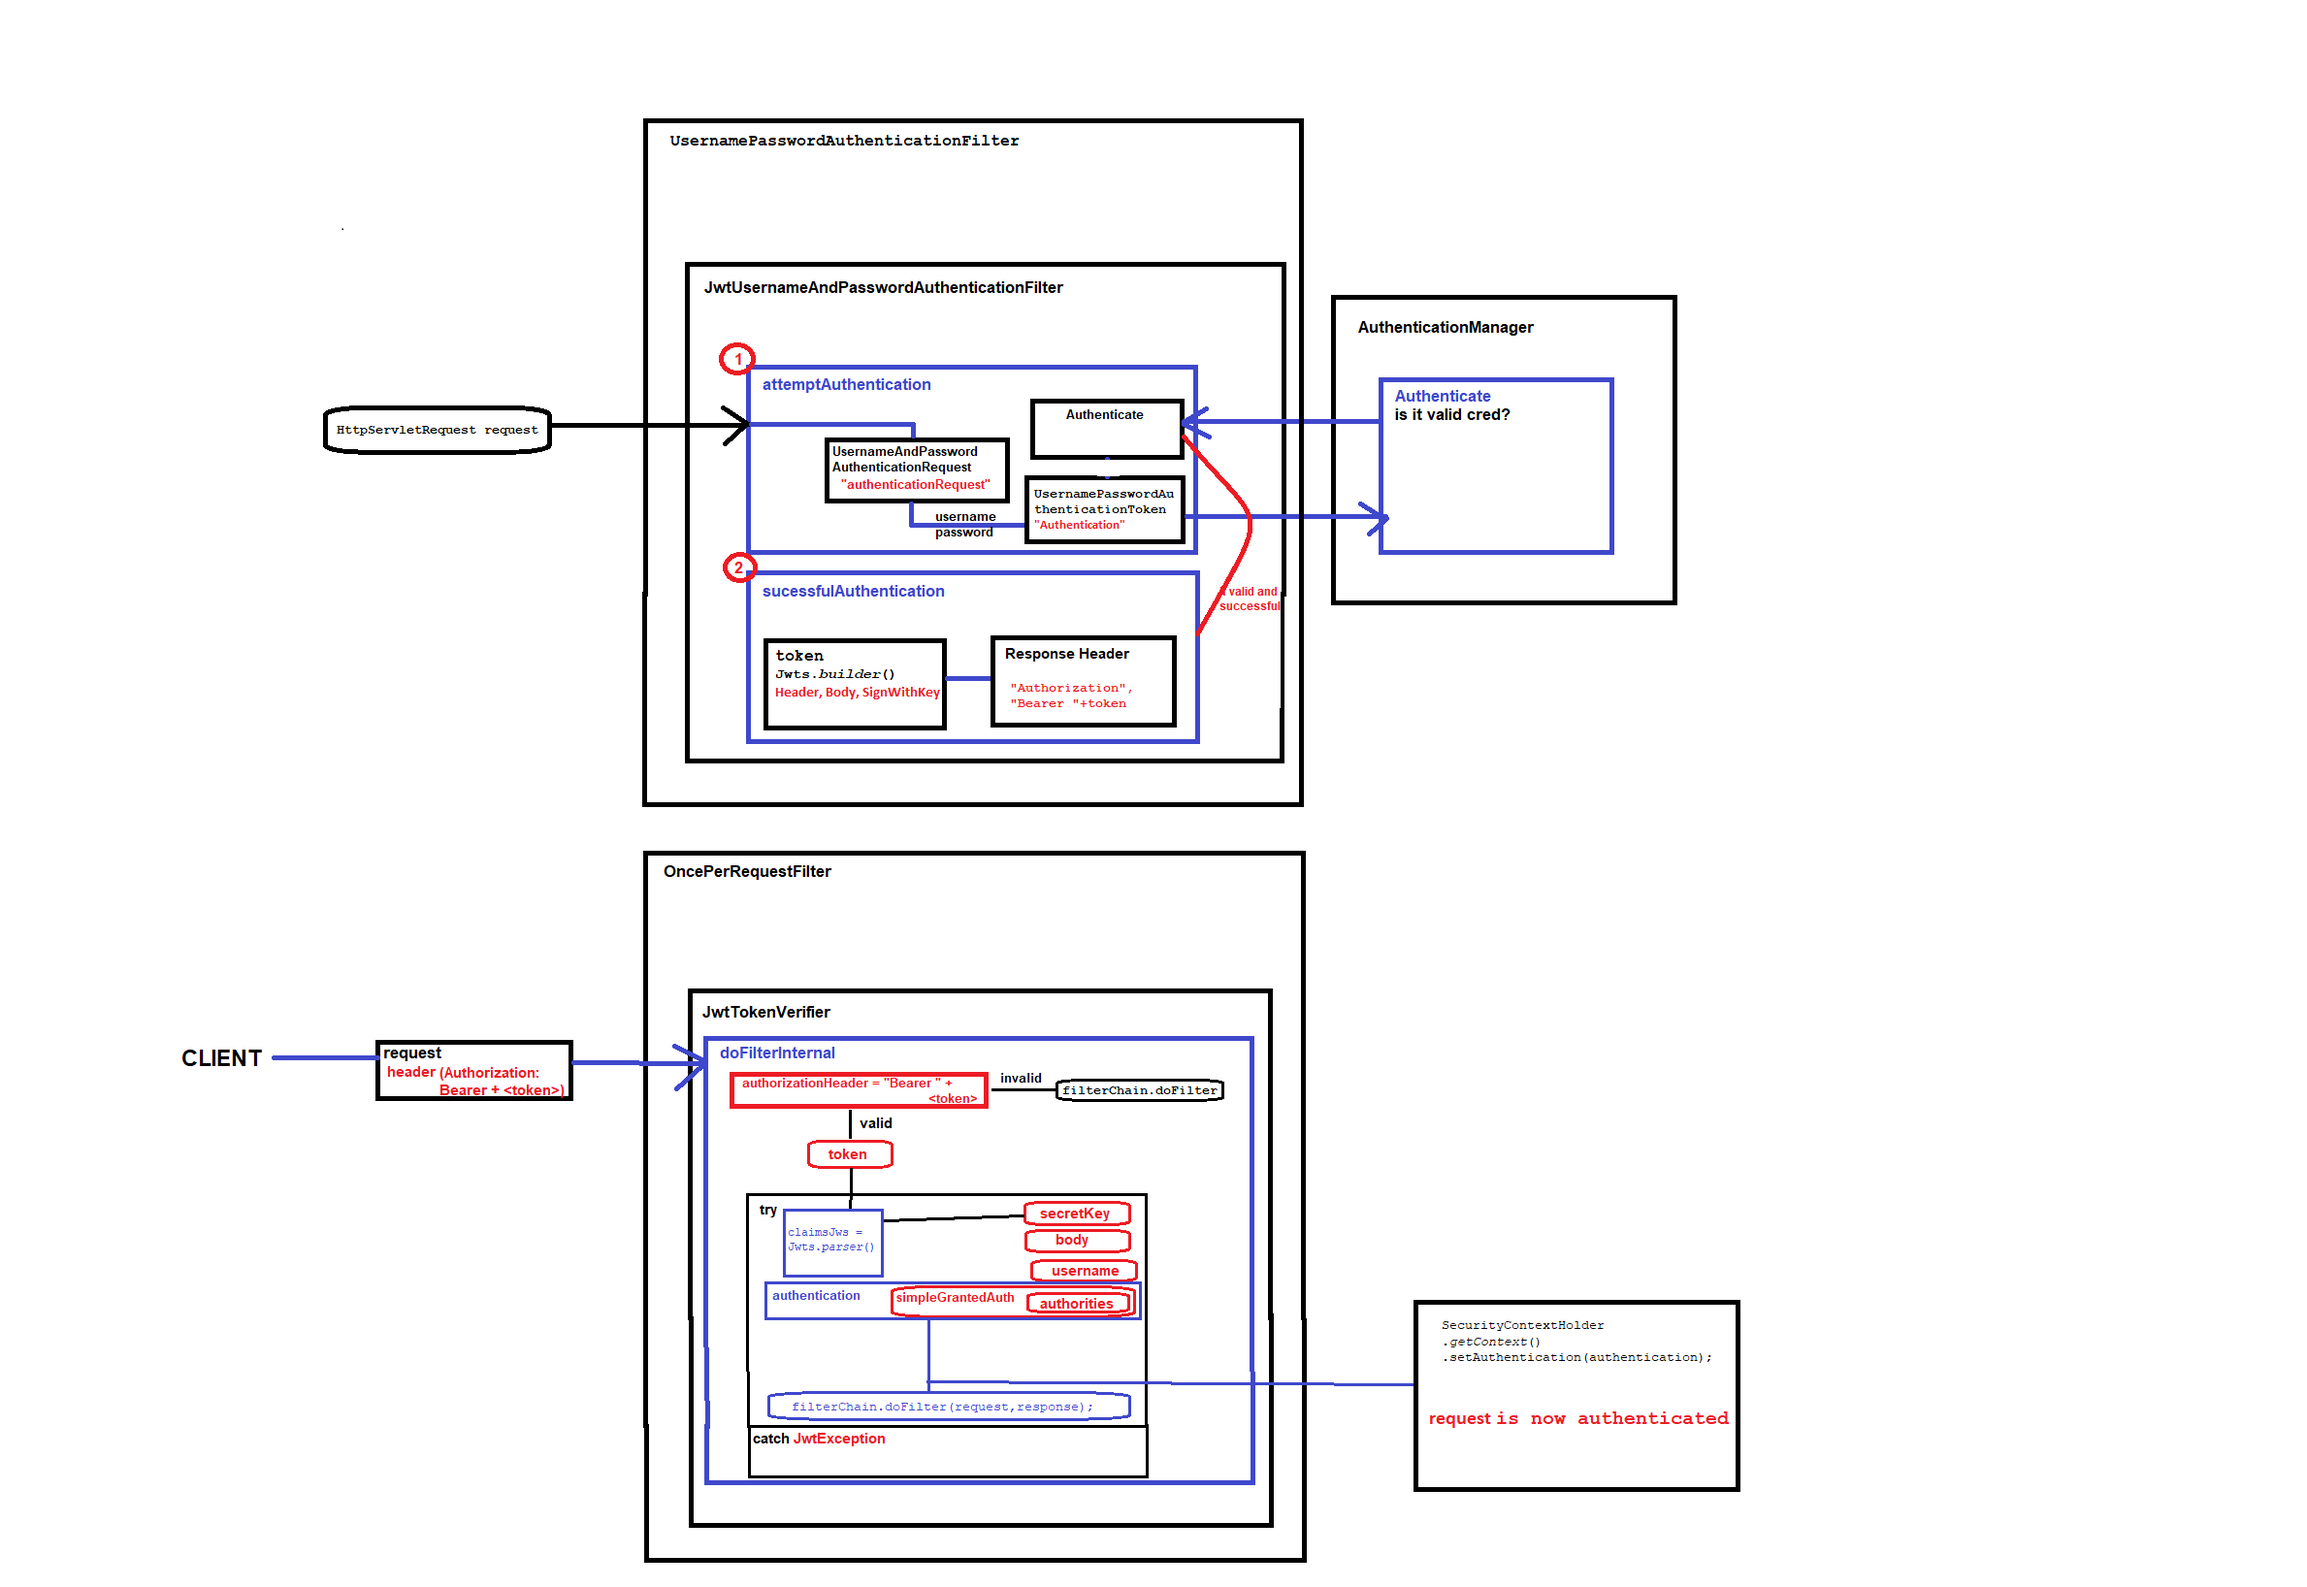
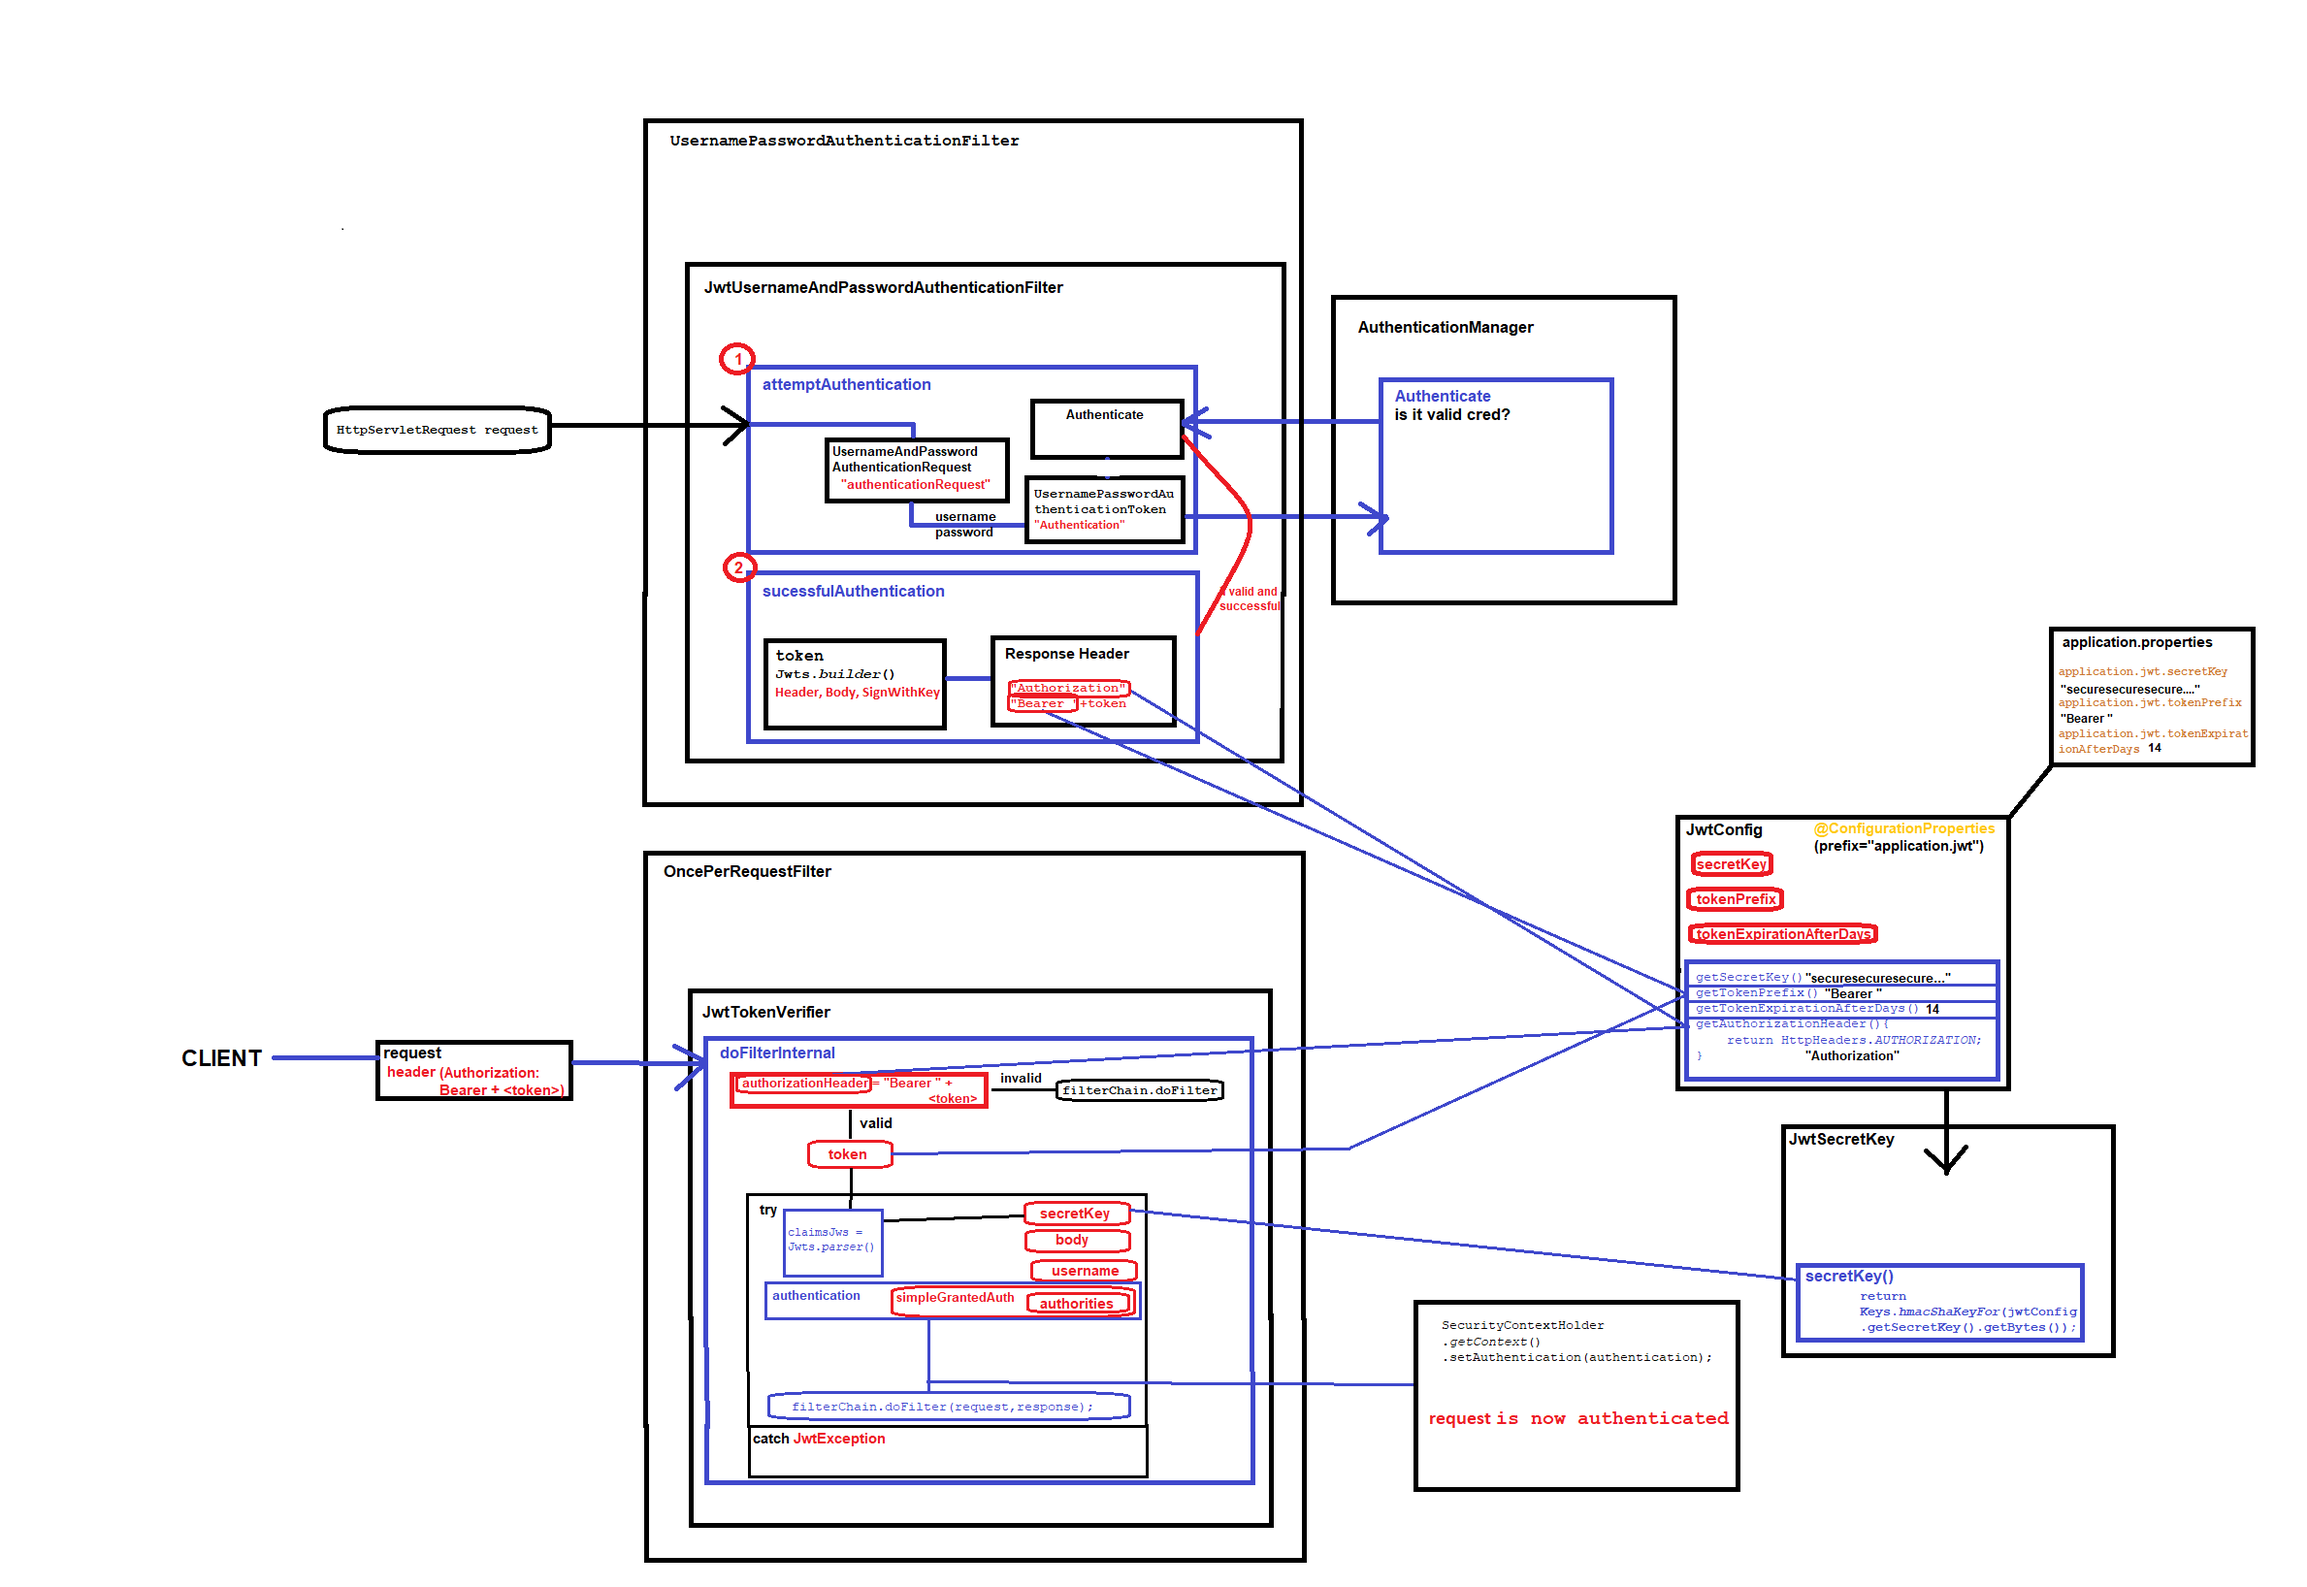
added classes JwtConfig,JwtSecretKey,JwtTokenVerifier,and defined application.jwt secretKey,tokenPrefix, and tokenExpirationAfterDays in application.properties

diff --git a/src/main/java/com/example/security/jwt/JwtTokenVerifier.java b/src/main/java/com/example/security/jwt/JwtTokenVerifier.java
@@ -6,13 +6,13 @@ import io.jsonwebtoken.Jws;
 import io.jsonwebtoken.JwtException;
 import io.jsonwebtoken.Jwts;
 import io.jsonwebtoken.security.Keys;
-import org.apache.tomcat.util.http.fileupload.MultipartStream;
 import org.springframework.security.authentication.UsernamePasswordAuthenticationToken;
 import org.springframework.security.core.Authentication;
 import org.springframework.security.core.authority.SimpleGrantedAuthority;
 import org.springframework.security.core.context.SecurityContextHolder;
 import org.springframework.web.filter.OncePerRequestFilter;
 
+import javax.crypto.SecretKey;
 import javax.servlet.FilterChain;
 import javax.servlet.ServletException;
 import javax.servlet.http.HttpServletRequest;
@@ -25,29 +25,41 @@ import java.util.stream.Collectors;
 
 public class JwtTokenVerifier extends OncePerRequestFilter {
 
+    private final SecretKey secretKey;
+    private final JwtConfig jwtConfig;
+
+    public JwtTokenVerifier(SecretKey secretKey, JwtConfig jwtConfig) {
+        this.secretKey = secretKey;
+        this.jwtConfig = jwtConfig;
+    }
+
     //invoke the filter once per every single request
     @Override
     protected void doFilterInternal(HttpServletRequest request,
                                     HttpServletResponse response,
                                     FilterChain filterChain) throws ServletException, IOException {
 
-        String authorizationHeader = request.getHeader("Authorization");
+        //String authorizationHeader = request.getHeader("Authorization");
+        String authorizationHeader = request.getHeader(jwtConfig.getAuthorizationHeader());
 
         //the request will be rejected if the authorizationHeader(token) is invalid: null or doesn't start with "Bearer "
-        if(Strings.isNullOrEmpty(authorizationHeader) || !authorizationHeader.startsWith("Bearer ")){
+        //if(Strings.isNullOrEmpty(authorizationHeader) || !authorizationHeader.startsWith("Bearer ")){
+        if(Strings.isNullOrEmpty(authorizationHeader) || !authorizationHeader.startsWith(jwtConfig.getTokenPrefix())){
             filterChain.doFilter(request,response);
             return;
         }
 
         //replace authorizationHeader(token) with token value but Bearer part removed
-        String token = authorizationHeader.replace("Bearer ", "");
+        //String token = authorizationHeader.replace("Bearer ", "");
+        String token = authorizationHeader.replace(jwtConfig.getTokenPrefix(), "");
 
         try{
-            String secretKey = "securesecuresecuresecuresecuresecuresecuresecuresecure";
+            //String secretKey = "securesecuresecuresecuresecuresecuresecuresecuresecure";
 
             //parse(break up each part of) actual token
             Jws<Claims> claimsJws = Jwts.parser()
-                    .setSigningKey(Keys.hmacShaKeyFor(secretKey.getBytes()))    //key from JwtUsernameAndPasswordAuthenticationFilter
+                    //.setSigningKey(Keys.hmacShaKeyFor(secretKey.getBytes()))    //key from JwtUsernameAndPasswordAuthenticationFilter
+                    .setSigningKey(secretKey)
                     .parseClaimsJws(token);
 
             Claims body = claimsJws.getBody();

diff --git a/src/main/java/com/example/security/jwt/JwtUsernameAndPasswordAuthenticationFilter.java b/src/main/java/com/example/security/jwt/JwtUsernameAndPasswordAuthenticationFilter.java
@@ -9,6 +9,7 @@ import org.springframework.security.core.Authentication;
 import org.springframework.security.core.AuthenticationException;
 import org.springframework.security.web.authentication.UsernamePasswordAuthenticationFilter;
 
+import javax.crypto.SecretKey;
 import javax.servlet.FilterChain;
 import javax.servlet.ServletException;
 import javax.servlet.http.HttpServletRequest;
@@ -21,9 +22,15 @@ import java.util.Date;
 public class JwtUsernameAndPasswordAuthenticationFilter extends UsernamePasswordAuthenticationFilter {
 
     private final AuthenticationManager authenticationManager;
+    private final JwtConfig jwtConfig;
+    private final SecretKey secretKey;
 
-    public JwtUsernameAndPasswordAuthenticationFilter(AuthenticationManager authenticationManager) {
+    public JwtUsernameAndPasswordAuthenticationFilter(AuthenticationManager authenticationManager,
+                                                      JwtConfig jwtConfig,
+                                                      SecretKey secretKey) {
         this.authenticationManager = authenticationManager;
+        this.jwtConfig = jwtConfig;
+        this.secretKey = secretKey;
     }
 
 
@@ -60,19 +67,21 @@ public class JwtUsernameAndPasswordAuthenticationFilter extends UsernamePassword
                                             FilterChain chain,
                                             Authentication authResult) throws IOException, ServletException {
 
-        String key = "securesecuresecuresecuresecuresecuresecuresecuresecure";      //make sure the key is long enough, so nobody can guess it
+        //String key = "securesecuresecuresecuresecuresecuresecuresecuresecure";      //make sure the key is long enough, so nobody can guess it
 
         String token = Jwts.builder()
                 .setSubject(authResult.getName())                                   //linda, tom, annasmith etc
                 .claim("authorities", authResult.getAuthorities())               //body
                 .setIssuedAt(new Date())
-                .setExpiration(java.sql.Date.valueOf(LocalDate.now().plusWeeks(2))) //token expires after 2 weeks
-                .signWith(Keys.hmacShaKeyFor(key.getBytes()))
+                .setExpiration(java.sql.Date.valueOf(LocalDate.now().plusDays(jwtConfig.getTokenExpirationAfterDays()))) //token expires after 2 weeks
+                .signWith(secretKey)
+                //.signWith(Keys.hmacShaKeyFor(key.getBytes()))
                 .compact();
 
         //add the token to the response so that client can retrieve it for subsequent requests
         //send the token back to the client
-        response.addHeader("Authorization", "Bearer "+token);
+        //response.addHeader("Authorization", "Bearer "+token);
+        response.addHeader(jwtConfig.getAuthorizationHeader(), jwtConfig.getTokenPrefix()+token);
 
     }
 }

diff --git a/src/main/java/com/example/security/security/ApplicationSecurityConfig.java b/src/main/java/com/example/security/security/ApplicationSecurityConfig.java
@@ -1,6 +1,7 @@
 package com.example.security.security;
 
 import com.example.security.auth.ApplicationUserService;
+import com.example.security.jwt.JwtConfig;
 import com.example.security.jwt.JwtTokenVerifier;
 import com.example.security.jwt.JwtUsernameAndPasswordAuthenticationFilter;
 import org.springframework.beans.factory.annotation.Autowired;
@@ -14,9 +15,8 @@ import org.springframework.security.config.annotation.web.configuration.EnableWe
 import org.springframework.security.config.annotation.web.configuration.WebSecurityConfigurerAdapter;
 import org.springframework.security.config.http.SessionCreationPolicy;
 import org.springframework.security.crypto.password.PasswordEncoder;
-import org.springframework.security.web.util.matcher.AntPathRequestMatcher;
 
-import java.util.concurrent.TimeUnit;
+import javax.crypto.SecretKey;
 
 @Configuration
 @EnableWebSecurity
@@ -25,11 +25,15 @@ public class ApplicationSecurityConfig extends WebSecurityConfigurerAdapter {
 
     private final PasswordEncoder passwordEncoder;
     private final ApplicationUserService applicationUserService;
+    private final SecretKey secretKey;
+    private final JwtConfig jwtConfig;
 
     @Autowired
-    public ApplicationSecurityConfig(PasswordEncoder passwordEncoder, ApplicationUserService applicationUserService) {
+    public ApplicationSecurityConfig(PasswordEncoder passwordEncoder, ApplicationUserService applicationUserService, SecretKey secretKey, JwtConfig jwtConfig) {
         this.passwordEncoder = passwordEncoder;
         this.applicationUserService = applicationUserService;
+        this.secretKey = secretKey;
+        this.jwtConfig = jwtConfig;
     }
 
     @Override
@@ -40,8 +44,8 @@ public class ApplicationSecurityConfig extends WebSecurityConfigurerAdapter {
                 /**JWT STATELESS AUTH**/
                 .sessionManagement().sessionCreationPolicy(SessionCreationPolicy.STATELESS)
                 .and()  //STATELESS session won't be stored in the db
-                .addFilter(new JwtUsernameAndPasswordAuthenticationFilter(authenticationManager()))
-                .addFilterAfter(new JwtTokenVerifier(),
+                .addFilter(new JwtUsernameAndPasswordAuthenticationFilter(authenticationManager(), jwtConfig, secretKey))
+                .addFilterAfter(new JwtTokenVerifier(secretKey, jwtConfig),
                         JwtUsernameAndPasswordAuthenticationFilter.class)  //register JwtTokenVerifier after JwtUsernameAndPasswordAuthFilter
 
              /**CSRF AUTH

diff --git a/src/main/java/com/example/security/jwt/JwtConfig.java b/src/main/java/com/example/security/jwt/JwtConfig.java
@@ -1,7 +1,49 @@
 package com.example.security.jwt;
 
+import com.google.common.net.HttpHeaders;
+import io.jsonwebtoken.security.Keys;
 import org.springframework.boot.context.properties.ConfigurationProperties;
+import org.springframework.context.annotation.Bean;
+import org.springframework.context.annotation.Configuration;
 
+import javax.crypto.SecretKey;
+
+@Configuration
 @ConfigurationProperties(prefix = "application.jwt")
 public class JwtConfig {
+
+    private String secretKey;
+    private String tokenPrefix;
+    private Integer tokenExpirationAfterDays;
+
+    public JwtConfig() {
+    }
+
+    public void setSecretKey(String secretKey) {
+        this.secretKey = secretKey;
+    }
+
+    public void setTokenPrefix(String tokenPrefix) {
+        this.tokenPrefix = tokenPrefix;
+    }
+
+    public void setTokenExpirationAfterDays(Integer tokenExpirationAfterDays) {
+        this.tokenExpirationAfterDays = tokenExpirationAfterDays;
+    }
+
+    public String getSecretKey() {
+        return secretKey;
+    }
+
+    public String getTokenPrefix() {
+        return tokenPrefix;
+    }
+
+    public Integer getTokenExpirationAfterDays() {
+        return tokenExpirationAfterDays;
+    }
+
+    public String getAuthorizationHeader(){
+        return HttpHeaders.AUTHORIZATION;
+    }
 }

diff --git a/src/main/java/com/example/security/jwt/JwtSecretKey.java b/src/main/java/com/example/security/jwt/JwtSecretKey.java
@@ -1,0 +1,25 @@
+package com.example.security.jwt;
+
+import io.jsonwebtoken.security.Keys;
+import org.springframework.beans.factory.annotation.Autowired;
+import org.springframework.context.annotation.Bean;
+import org.springframework.context.annotation.Configuration;
+
+import javax.crypto.SecretKey;
+
+@Configuration
+public class JwtSecretKey {
+
+    private final JwtConfig jwtConfig;
+
+    @Autowired
+    public JwtSecretKey(JwtConfig jwtConfig){
+        this.jwtConfig = jwtConfig;
+    }
+
+    @Bean
+    public SecretKey secretKey(){
+        return Keys.hmacShaKeyFor(jwtConfig.getSecretKey().getBytes());
+
+    }
+}
